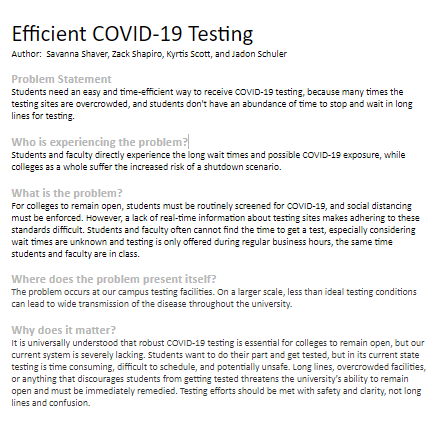
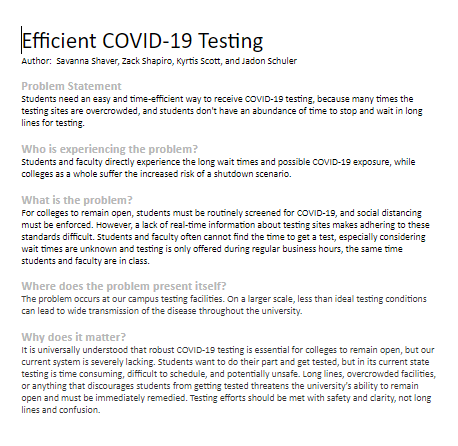
Add files via upload

diff --git a/index.html b/index.html
@@ -8,7 +8,7 @@
         <h1>Savanna Shaver CSCE 190 Site </h1>
 
         <section class= "assignment">
-        <a href="files/problem-statement.pdf"><img src="images/s-attempt.png"></a>
+        <a href="files/problem-statement.pdf"><img src="images/problem-statement.png"></a>
         <section class= "ass-details">
           <a href="files/problem-statement.pdf"><h2>Problem Statement:Efficient COVID-19 Testing</h2></a>
           <p>
